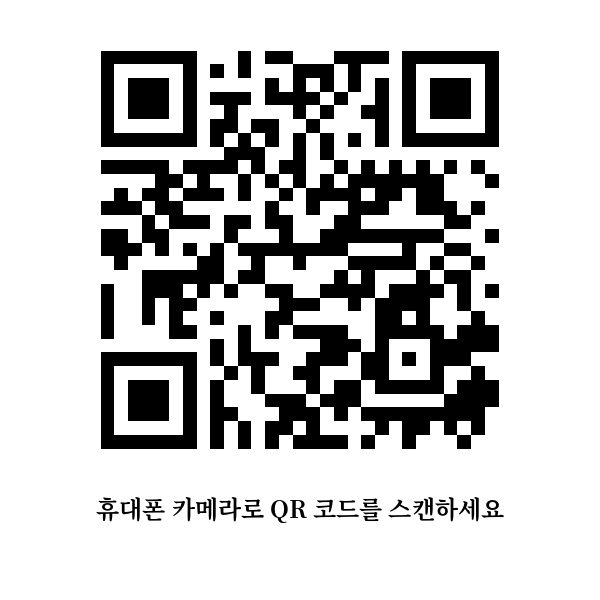
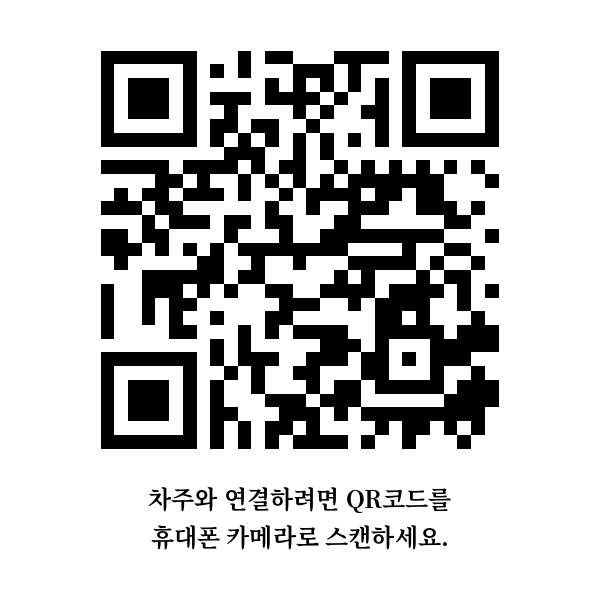
Update QR instruction text and regenerate image

Changed region(s): [[0.15, 0.81, 0.84, 0.93]]

diff --git a/generate_qr.py b/generate_qr.py
@@ -39,19 +39,21 @@ try:
         # 폰트 로드 실패 시 기본 폰트
         font = ImageFont.load_default()
         
-    text = "휴대폰 카메라로 QR 코드를 스캔하세요"
+    text = "차주와 연결하려면 QR코드를\n휴대폰 카메라로 스캔하세요."
     
     # 텍스트 박스 크기 계산 (Pillow 버전에 따라 getsize 또는 textbbox 사용)
     try:
-        left, top, right, bottom = draw.textbbox((0, 0), text, font=font)
+        # 멀티라인 텍스트 지원을 위해 draw.multiline_textbbox 사용
+        left, top, right, bottom = draw.multiline_textbbox((0, 0), text, font=font, align="center")
         text_width = right - left
     except AttributeError:
+        # 구버전 대응
         text_width, _ = draw.textsize(text, font=font)
         
     text_x = (canvas_size - text_width) // 2
-    text_y = qr_y + qr_img.height + 40
+    text_y = qr_y + qr_img.height + 30
     
-    draw.text((text_x, text_y), text, fill="black", font=font)
+    draw.multiline_text((text_x, text_y), text, fill="black", font=font, align="center", spacing=10)
     
     # 5. 저장
     canvas.save(output_path)
